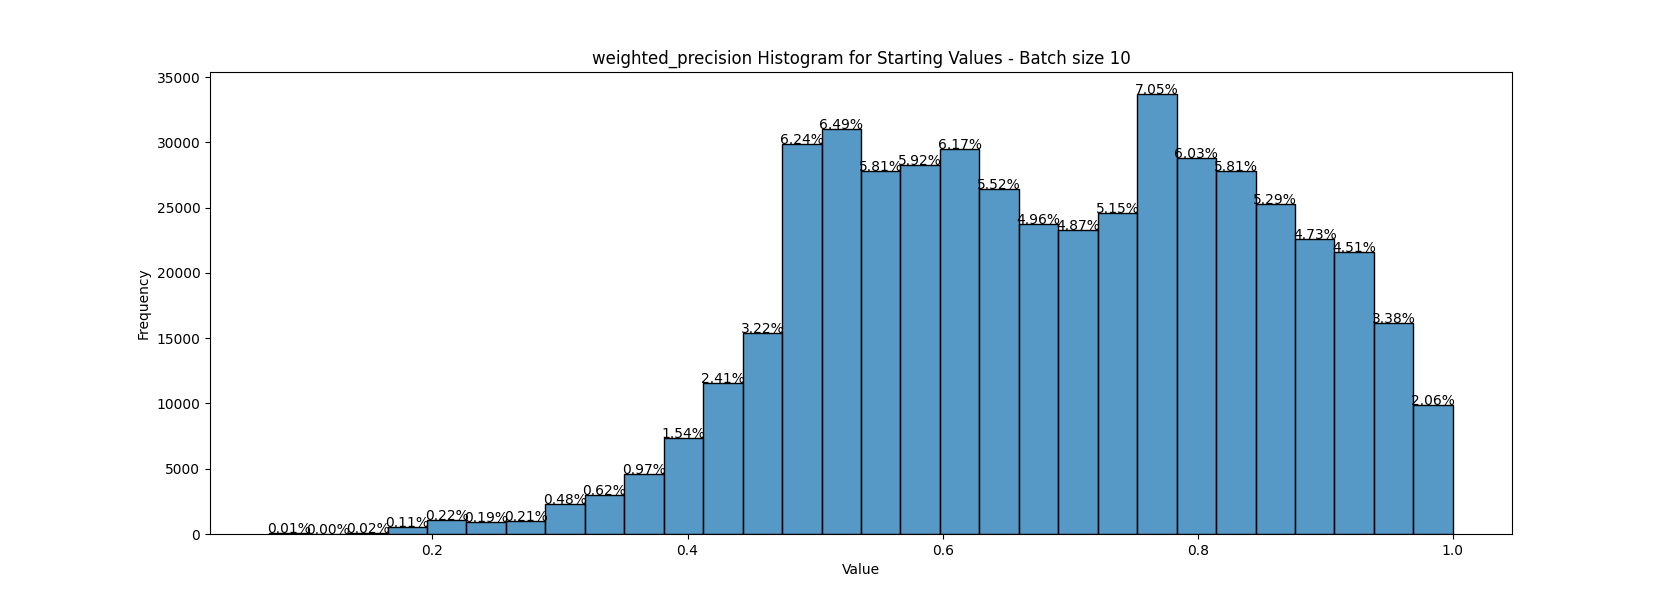
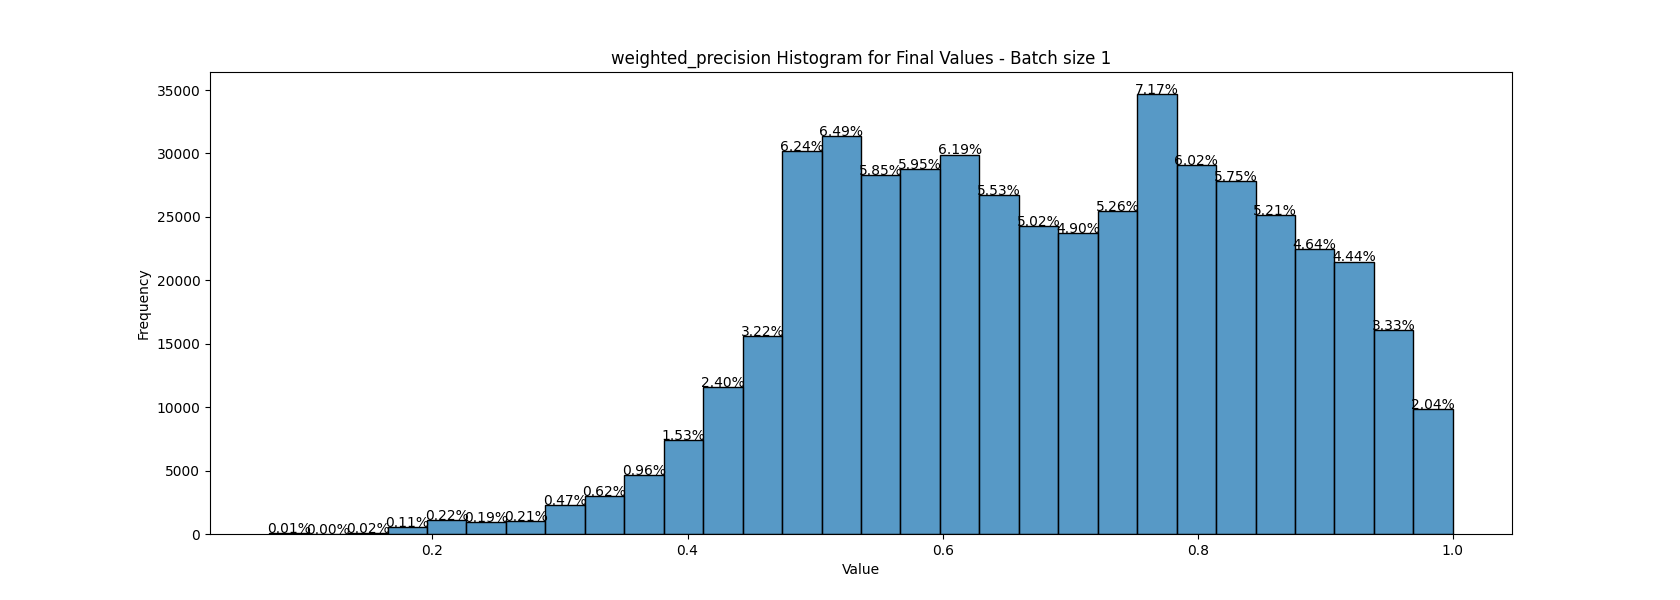
Update `weighted_precision` plots

diff --git a/src/seed_analysis/seed_analysis.py b/src/seed_analysis/seed_analysis.py
@@ -585,18 +585,18 @@ def run(hpc=False, plot_start_end=False, plot_top_k=False):
         )
         if plot_start_end:
             # use 'first' or 'last' to show distribution for starting / final values.
-            seed.plot_histograms_batchsize(start_end_count, "start")
+            seed.plot_histograms_batchsize(start_end_count, "first")
 
-        pairs = seed.load_unique_pair_frequency(
-            input_dir="/Users/user/GitHub/Data-Mining/src/seed_analysis/results/batch_pairs"
-        )
-        top = seed.filter_top_k_pairs(column_counts=pairs, top_k=20000, threshold=0)
-        seed.save_top_k_to_csv(
-            output_dir="/Users/user/GitHub/Data-Mining/src/seed_analysis/results/top_k",
-            filtered_counts=top,
-        )
-        if plot_top_k:
-            seed.plot_histograms_top_k_pairs(filtered_counts=top)
+        # pairs = seed.load_unique_pair_frequency(
+        #     input_dir="/Users/user/GitHub/Data-Mining/src/seed_analysis/results/batch_pairs"
+        # )
+        # top = seed.filter_top_k_pairs(column_counts=pairs, top_k=20000, threshold=0)
+        # seed.save_top_k_to_csv(
+        #     output_dir="/Users/user/GitHub/Data-Mining/src/seed_analysis/results/top_k",
+        #     filtered_counts=top,
+        # )
+        # if plot_top_k:
+        #     seed.plot_histograms_top_k_pairs(filtered_counts=top)
 
 
 if __name__ == "__main__":
